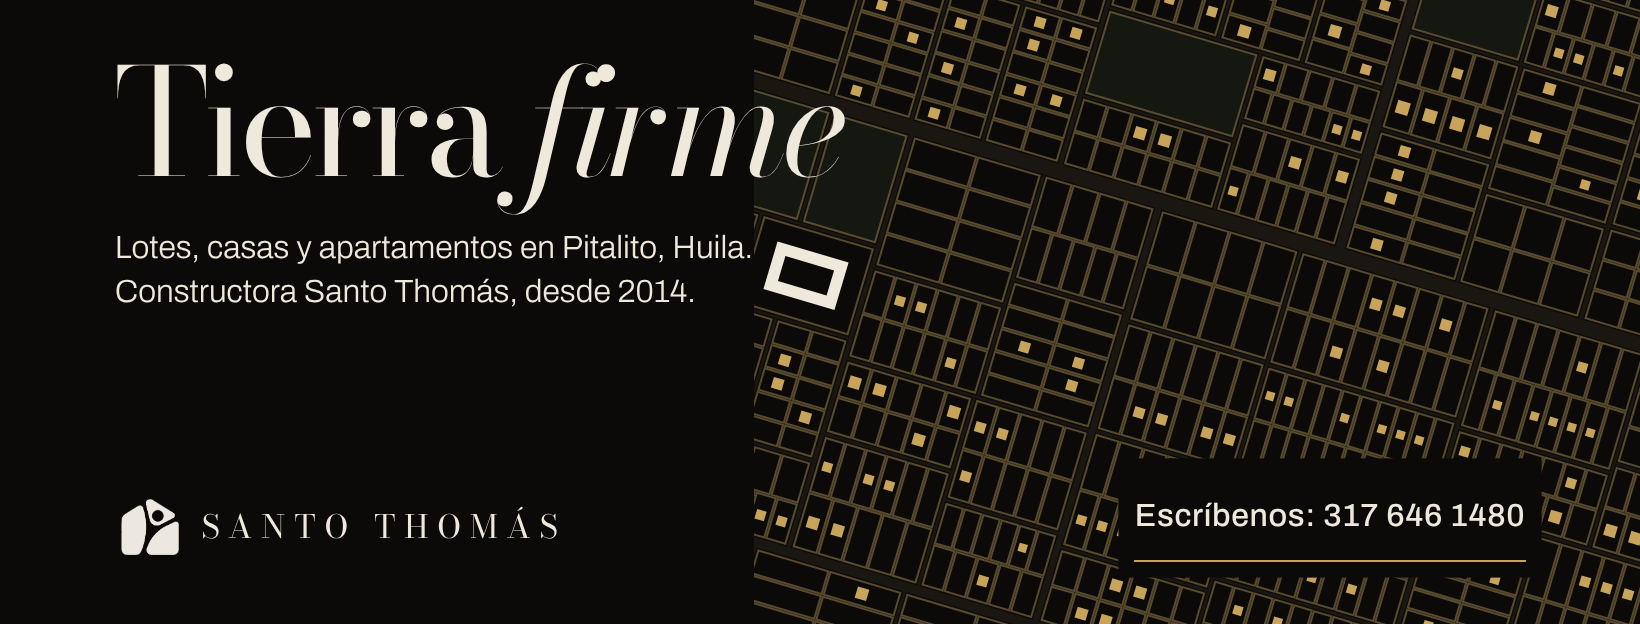
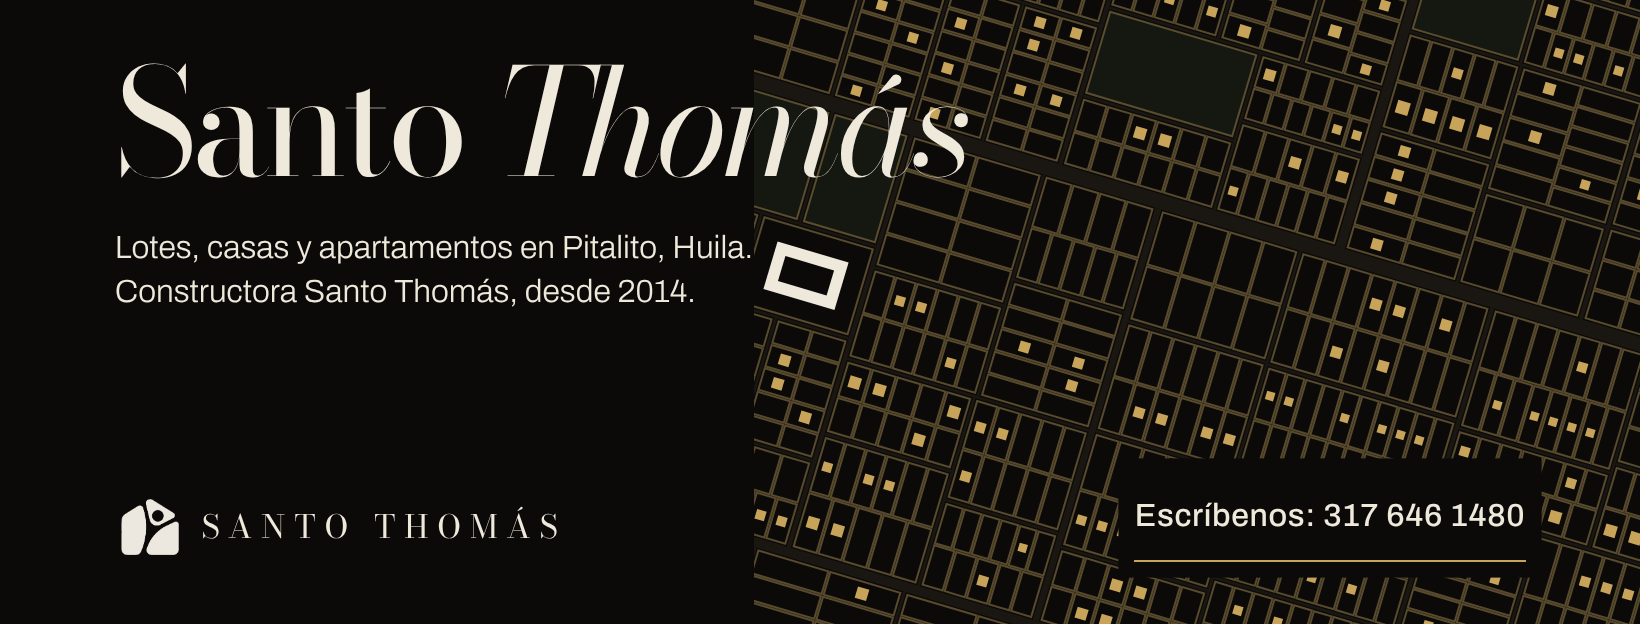
Santo Thomás page: name and glass-revealed mark in the hero
Claude-Session: https://claude.ai/code/session_01EuNx7qHGaqCun31qjyEdxN

Changed region(s): [[0.0622, 0.0913, 0.5909, 0.3349]]

diff --git a/santo-thomas/index.html b/santo-thomas/index.html
@@ -107,29 +107,24 @@ em{font-style:italic}
 .barra nav a:hover{color:var(--oro)}
 @media(max-width:899px){.barra{flex-wrap:wrap;gap:6px var(--m);padding-block:20px}.barra nav{width:100%}.barra ul{justify-content:space-between}.barra nav a{font-size:11px;letter-spacing:.16em}.barra .wa{display:none}}
 
-/* Entrada con el logo en vidrio */
-.intro{display:none}
-.con-intro .intro{display:grid;place-items:center;position:fixed;inset:0;z-index:20;background:var(--negro);transition:transform 1.1s var(--salir)}
-.intro .vidrio{position:absolute;inset:0}
-.intro .nombre{position:absolute;left:0;right:0;top:calc(50% + min(27vh,230px));text-align:center;font-family:var(--serif);font-size:clamp(18px,1.9vw,26px);letter-spacing:.42em;text-transform:uppercase;padding-left:.42em;opacity:0;transform:translateY(10px);transition:opacity .9s var(--salir),transform .9s var(--salir)}
-.intro.nombrada .nombre{opacity:1;transform:none}
-.intro.fuera{transform:translateY(-100%)}
-
 /* Portada: dos palabras enormes que pisan las fotos */
 .portada{position:relative;min-height:max(100svh,700px);display:grid;grid-template-columns:repeat(12,minmax(0,1fr));grid-template-rows:1fr auto;column-gap:var(--m);padding:120px var(--m) clamp(28px,5vh,56px)}
-.portada h1{grid-column:1/-1;grid-row:1;align-self:center;position:relative;z-index:2;font-size:clamp(84px,19.5vw,330px);line-height:.8;letter-spacing:-.045em;pointer-events:none}
-.portada h1 .l2{padding-left:21vw;font-style:italic}
-.portada .f1{grid-column:8/12;grid-row:1;align-self:center;height:min(66vh,720px);z-index:1}
-.portada .f2{position:absolute;left:calc(var(--m) + 31vw);bottom:clamp(28px,5vh,56px);width:17vw;aspect-ratio:4/3;z-index:3}
+.portada h1{grid-column:1/-1;grid-row:1;align-self:center;position:relative;z-index:2;font-size:clamp(76px,16.6vw,290px);line-height:.82;letter-spacing:-.045em;pointer-events:none;mix-blend-mode:difference}
+.portada h1 .l2{padding-left:16vw;font-style:italic}
+/* El isotipo vive en la sangría de la segunda línea; el vidrio lo revela al abrir */
+.portada .sello{grid-column:1/4;grid-row:1;align-self:center;position:relative;z-index:1;width:21vw;margin-left:-3.4vw;aspect-ratio:1;transform:translateY(7.6vw);cursor:pointer}
+.portada .sello img{position:absolute;inset:0;margin:auto;width:42%;height:auto}
+.portada .sello.vivo img{visibility:hidden}
+.portada .f1{grid-column:9/13;grid-row:1;align-self:center;height:min(66vh,720px);z-index:1}
 .portada .pie{grid-column:1/-1;grid-row:2;display:grid;grid-template-columns:repeat(12,minmax(0,1fr));column-gap:var(--m);align-items:end;position:relative;z-index:4}
 .portada .apoyo{grid-column:1/5;display:grid;gap:26px;justify-items:start;padding-top:34px}
 .portada .apoyo p{max-width:34ch}
 .portada .coord{grid-column:9/13;justify-self:end;text-align:right}
 @media(max-width:899px){
   .portada{display:block;padding-top:132px;min-height:0}
-  .portada h1{font-size:25.5vw}.portada h1 .l2{padding-left:15vw}
-  .portada .f1{height:58vh;margin-top:-9vw;margin-left:18vw}
-  .portada .f2{display:none}
+  .portada h1{font-size:22.5vw}.portada h1 .l2{padding-left:9vw}
+  .portada .sello{width:44vw;transform:none;margin:-4vw 0 -2vw -9vw}
+  .portada .f1{height:58vh;margin-top:-7vw;margin-left:18vw}
   .portada .pie{display:block;margin-top:36px}.portada .coord{text-align:left;margin-top:32px}
 }
 
@@ -240,12 +235,6 @@ em{font-style:italic}
 </head>
 <body>
 <a class="salto" href="#contenido">Ir al contenido</a>
-<script>
-// La entrada se muestra una vez por visita, y nunca si se pidió menos movimiento.
-try { if (!sessionStorage.getItem('st-intro') && !matchMedia('(prefers-reduced-motion: reduce)').matches && document.createElement('canvas').getContext('webgl2')) document.documentElement.classList.add('con-intro'); } catch (e) {}
-</script>
-<div class="intro" id="intro" aria-hidden="true"><div class="vidrio" id="vidrio"></div><div class="nombre">Santo Thomás</div></div>
-
 <header class="barra">
   <a class="marca" href="#inicio" aria-label="Constructora Santo Thomás, inicio">
     <img src="img/isotipo-solido.png" width="900" height="887" alt="">
@@ -265,12 +254,10 @@ try { if (!sessionStorage.getItem('st-intro') && !matchMedia('(prefers-reduced-m
 <main id="contenido">
 
 <section class="portada" id="inicio" data-grupo>
-  <h1 aria-label="Tierra firme"><span class="linea"><span>Tierra</span></span><span class="linea l2" style="--i:1"><span>firme</span></span></h1>
+  <div class="sello" id="sello" role="img" aria-label="Isotipo de Santo Thomás"><img src="img/isotipo-solido.png" width="900" height="887" alt=""></div>
+  <h1 aria-label="Constructora Santo Thomás"><span class="linea"><span>Santo</span></span><span class="linea l2" style="--i:1"><span>Thomás</span></span></h1>
   <figure class="foto f1" data-tapa data-par style="--i:2">
     <img src="img/render-torre-vertical.webp" srcset="img/render-torre-vertical-800.webp 800w, img/render-torre-vertical.webp 946w" sizes="(min-width:900px) 32vw, 82vw" width="946" height="1600" fetchpriority="high" alt="Render de la Torre Santo Thomás vista desde la calle.">
-  </figure>
-  <figure class="foto f2" data-tapa style="--i:4">
-    <img src="img/aerea-loteo-800.webp" width="800" height="600" alt="Vista aérea de la urbanización: vías trazadas y manzanas loteadas.">
   </figure>
   <div class="pie">
     <div class="apoyo">
@@ -471,26 +458,19 @@ try { if (!sessionStorage.getItem('st-intro') && !matchMedia('(prefers-reduced-m
     grupos.forEach(function (g) { io.observe(g); });
   };
 
-  // Entrada: el isotipo dentro del vidrio; al terminar sube la cortina y arranca la portada.
-  var intro = document.getElementById('intro'), conIntro = raiz.classList.contains('con-intro'), alTerminar = [revelar];
-  function cerrarIntro() {
-    if (!conIntro) return; conIntro = false;
-    try { sessionStorage.setItem('st-intro', '1'); } catch (e) {}
-    intro.classList.add('fuera'); raiz.classList.remove('con-intro');
-    setTimeout(function () { alTerminar.forEach(function (f) { f(); }); }, 250);
-    setTimeout(function () { intro.remove(); }, 1200);
-  }
-  if (conIntro) {
-    var gota = window.GlassReveal && GlassReveal.play(document.getElementById('vidrio'), {
-      logo: 'img/isotipo-solido.png', look: 'dark', hold: 0.6,
-      settings: { background: '#0b0a08', plateColor: '#14120e', logoColor: '#efe9dc', tileSize: 360, present: 1.9, startZoom: 2.1 },
-      onStart: function () { setTimeout(function () { intro.classList.add('nombrada'); }, 1500); },
-      onEnd: cerrarIntro
+  // Portada: el isotipo aparece dentro de una gota de vidrio que lo refracta y luego lo suelta.
+  // Un toque sobre él repite la animación. Sin WebGL2 o con movimiento reducido queda la imagen fija.
+  var sello = document.getElementById('sello'), gota = null;
+  function vidrio() {
+    if (gota) gota.dispose();
+    gota = window.GlassReveal && GlassReveal.play(sello, {
+      logo: 'img/isotipo-solido.png', look: 'dark', fit: 1.28,
+      settings: { background: '#0b0a08', plateColor: '#14120e', logoColor: '#efe9dc', tileSize: 420, present: 2.2, startZoom: 2.1, finalScale: 1 },
+      onStart: function () { sello.classList.add('vivo'); }
     });
-    if (!gota) cerrarIntro();
-    else ['wheel', 'touchmove', 'keydown', 'click'].forEach(function (n) { window.addEventListener(n, cerrarIntro, { once: true, passive: true }); });
-    setTimeout(cerrarIntro, 7000);
-  } else revelar();
+  }
+  if (sello && !quieto) { vidrio(); sello.addEventListener('click', vidrio); }
+  revelar();
 
   // Manifiesto: cada palabra en su propio tramo, para encenderlas con el avance.
   var man = document.getElementById('manifiesto'), palabras = [];

diff --git a/santo-thomas/marca/brandkit.html b/santo-thomas/marca/brandkit.html
@@ -48,8 +48,8 @@ body{background:#1b1b19;font-family:Archivo,sans-serif;color:var(--cal)}
 <div id="t">
   <div class="p p1"><img src="../img/logo-claro.png" alt="Santo Thomás Constructora"><span class="et">Logotipo</span><span class="nu">01</span></div>
   <div class="p p2 claro"><div class="a"><img src="../img/logo-oscuro.png" alt=""></div><div class="b"><img src="../img/isotipo-solido.png" alt=""></div><span class="et">Versiones: sobre claro e isotipo</span><span class="nu" style="color:var(--gris)">02</span></div>
-  <div class="p p3"><div class="nav"><i></i><i></i><i></i><b>constructurasantothomas.com</b></div><canvas id="c3"></canvas><h3 class="serif">Tierra<br><em>firme</em></h3><span class="et">Sitio web</span><span class="nu">03</span></div>
-  <div class="p p4"><p class="serif">Tierra<br><em>firme.</em></p><span class="et">Idea de marca (propuesta)</span><span class="nu">04</span></div>
+  <div class="p p3"><div class="nav"><i></i><i></i><i></i><b>constructurasantothomas.com</b></div><canvas id="c3"></canvas><h3 class="serif">Santo<br><em>Thomás</em></h3><span class="et">Sitio web</span><span class="nu">03</span></div>
+  <div class="p p4"><p class="serif">Pitalito,<br><em>Huila.</em></p><span class="et">Lugar</span><span class="nu">04</span></div>
   <div class="p p5">
     <div style="background:#0b0a08">Negro<span>#0B0A08</span></div>
     <div style="background:#1c1914">Carbón<span>#1C1914</span></div>

diff --git a/santo-thomas/intro/glass-reveal.js b/santo-thomas/intro/glass-reveal.js
@@ -761,7 +761,7 @@ function play(host, opts) {
     const cw = canvas.clientWidth, ch = canvas.clientHeight;
     const w = Math.max(1, Math.round(cw * dpr)), h = Math.max(1, Math.round(ch * dpr));
     if (canvas.width !== w || canvas.height !== h) { canvas.width = w; canvas.height = h; }
-    const tile = Math.min(P.tileSize, Math.min(cw, ch) / 1.75);
+    const tile = Math.min(P.tileSize, Math.min(cw, ch) / (opts.fit || 1.75));
     renderer.render(frameAt(time, P), w, h, tile * dpr);
     if (time >= end) { setTimeout(finish, (opts.hold || 0) * 1000); return; }
     raf = requestAnimationFrame(tick);

diff --git a/santo-thomas/banners/banners.html b/santo-thomas/banners/banners.html
@@ -44,7 +44,7 @@ h1 em{font-style:italic}
   <div class="img"></div><div class="velo"></div><canvas id="c"></canvas><div class="panel"></div><div class="bloque"></div>
   <div class="zona">
     <div>
-      <h1>Tierra <em>firme</em></h1>
+      <h1>Santo <em>Thomás</em></h1>
       <p class="sub">Lotes, casas y apartamentos en Pitalito, Huila. Constructora Santo Thomás, desde 2014.</p>
     </div>
     <div class="fila">
